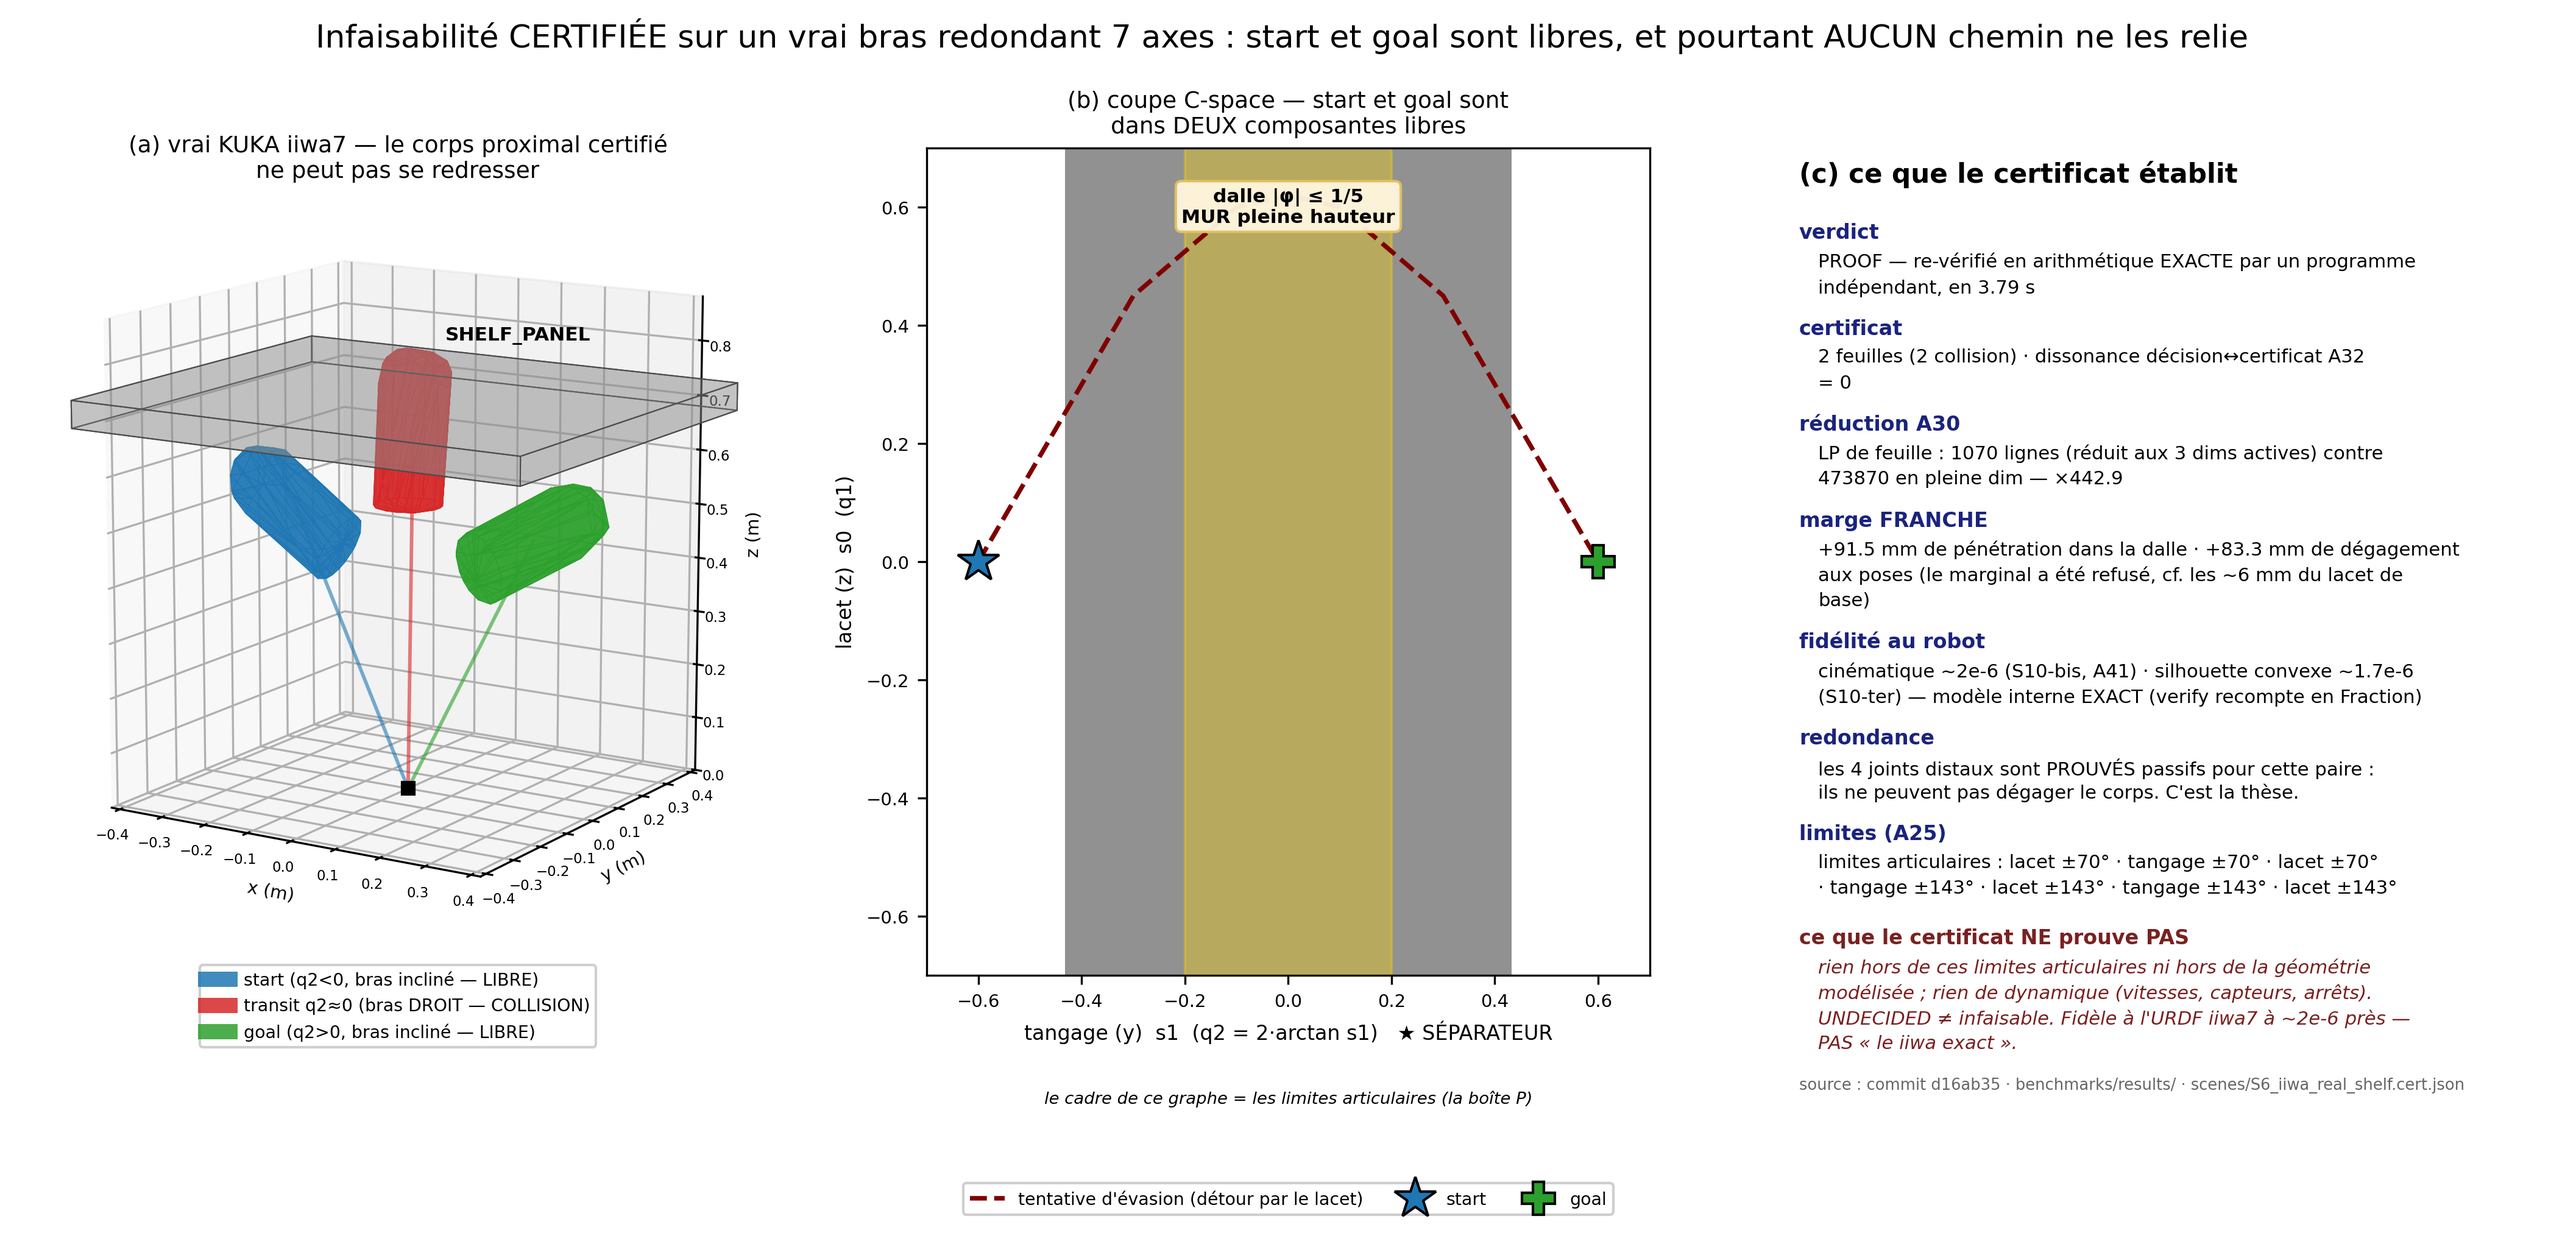
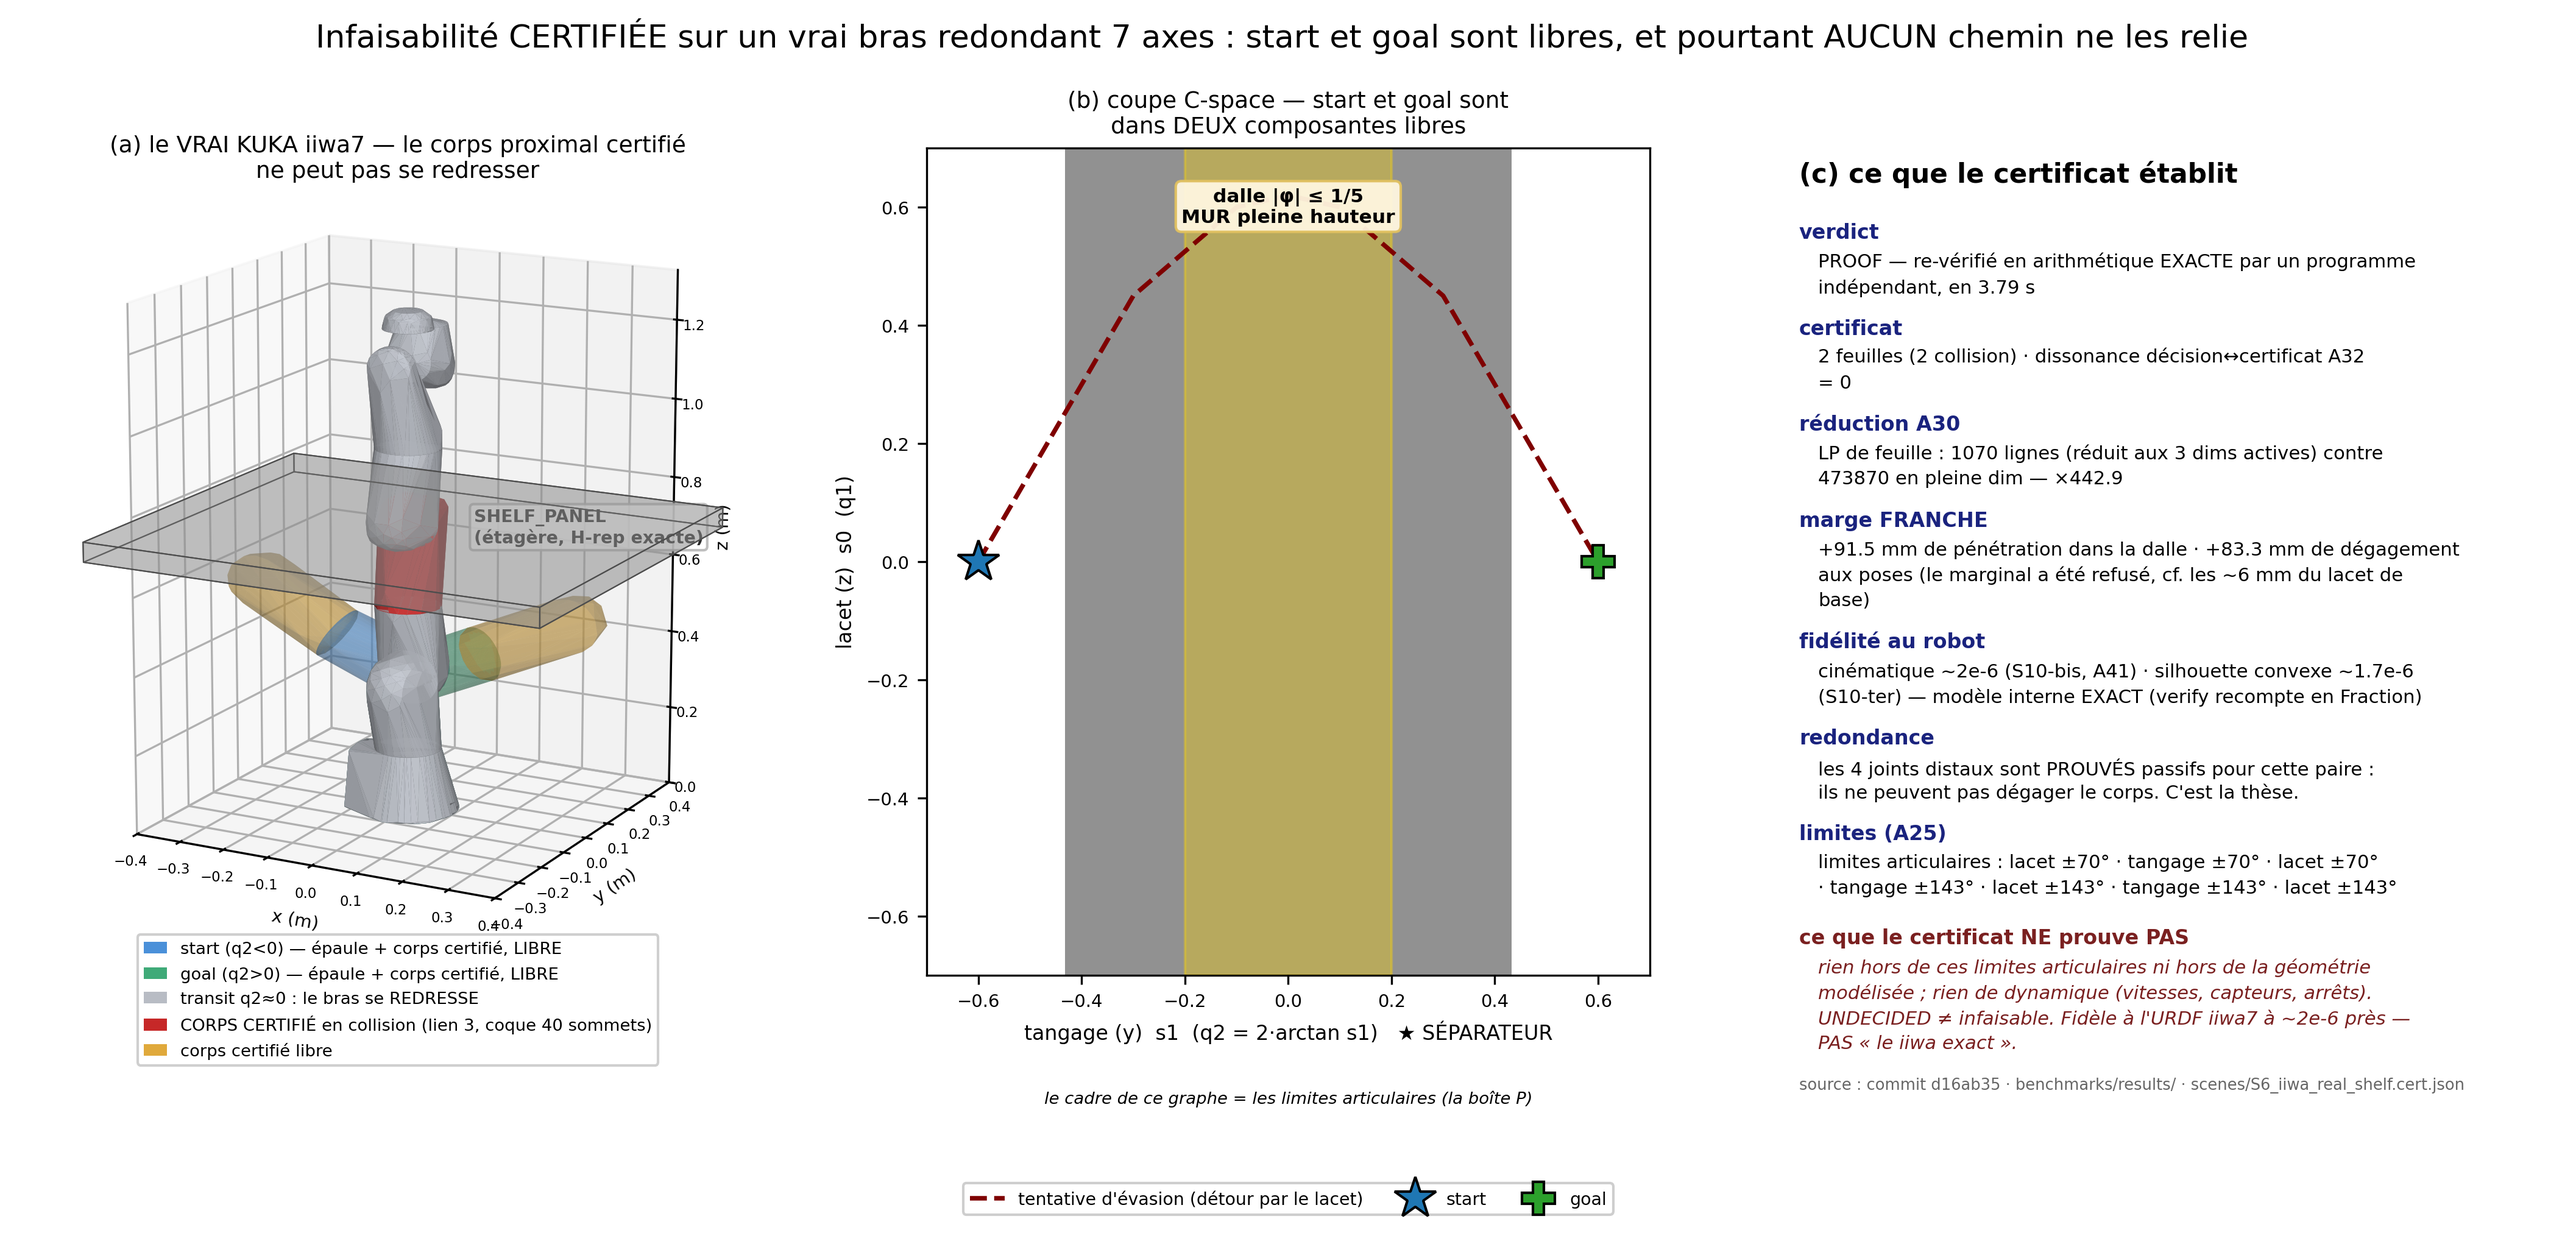
S11 fix Fig 1 — panneau (a) : dessiner le VRAI iiwa7, pas seulement la coque du corps certifié
Retour Stéphane sur le gate VUE : « je ne vois pas de kuka, juste des suppositoires de
couleur ». Exact — le panneau (a) ne dessinait que la coque du lien 3 aux trois poses.

- Le bras entier est rendu à partir des meshes de VISU Drake (coques convexes décimées par
  support), en réutilisant l'extraction déjà écrite pour l'export 3D partageable plutôt qu'en
  la dupliquant : le papier et l'artefact prospect montrent LE MÊME robot.
- Tous les triangles d'une pose vont dans UNE Poly3DCollection : mplot3d ne trie qu'entre
  collections, et une collection par lien produisait un empilement faux.
- Ombrage lambertien par triangle : sans lui une coque convexe se lit comme une tache plate.
- Poses fantômes limitées à l'épaule + corps certifié (le reste du bras incliné sortait du
  cadre et noyait la lecture) ; pose de transit dessinée entière et opaque.
- Étiquette de l'étagère en coordonnées d'axes (une annotation 3-D se faisait rogner).

L'assertion A40 est conservée : la couleur du corps doit coïncider avec l'oracle
corps-convexe, sinon la figure échoue au lieu de mentir.

Changed region(s): [[0.0312, 0.2179, 0.3122, 0.8715], [0.0312, 0.0934, 0.281, 0.1245]]

diff --git a/certified-noplan/scripts/make_paper_fig1.py b/certified-noplan/scripts/make_paper_fig1.py
@@ -2,9 +2,11 @@
 
 Trois panneaux, une histoire lisible sans légende orale (critère V7) :
 
-  (a) **rendu 3-D** : l'étagère en surplomb, le CORPS CERTIFIÉ (coque 40 sommets du
-      certificat, verbatim) aux poses start et goal — basses, libres, de part et d'autre —
-      et au TRANSIT ``q2≈0`` où le bras se redresse et percute l'étagère (rouge) ;
+  (a) **rendu 3-D du VRAI robot** : le KUKA iiwa7 entier (silhouettes convexes de ses meshes
+      de visu Drake, même doctrine « niveau 1 » que le corps certifié), l'étagère en surplomb,
+      et les trois poses — start et goal en fantômes (bras incliné, corps bas, LIBRE, de part
+      et d'autre) et le TRANSIT ``q2≈0`` en pleine opacité, où le bras se redresse et où le
+      CORPS CERTIFIÉ (coque 40 sommets du certificat, verbatim) percute l'étagère (rouge) ;
   (b) **coupe C-space** sur l'axe SÉPARATEUR (tangage d'épaule ``s1 = q2``) × le lacet de
       base : la dalle ``|φ| ≤ δ`` est un MUR de collision PLEINE HAUTEUR entre start et goal
       — c'est la déconnexion, et la redondance distale n'y change rien ;
@@ -33,6 +35,12 @@ OUT = os.path.join("benchmarks", "figures", "paper", "fig1.png")
 BENCH_GLOB = "benchmarks/results/*/flagship_S10_iiwa_real.json"
 ESCAPE = [(-0.6, 0.0), (-0.3, 0.45), (-0.1, 0.6), (0.0, 0.62), (0.1, 0.6), (0.3, 0.45),
           (0.6, 0.0)]
+START, GOAL, TRANSIT = "#4a90d9", "#3faa78", "#b8bcc4"
+
+
+def plt_patch(colour, label):
+    import matplotlib.patches as mpatches
+    return mpatches.Patch(facecolor=colour, edgecolor="none", label=label)
 
 
 def _latest_bench() -> dict:
@@ -44,11 +52,71 @@ def _latest_bench() -> dict:
 
 
 def _hull_faces(V):
+    """Triangles de la coque, ORIENTÉS vers l'extérieur (sinon le rendu paraît creux)."""
     from scipy.spatial import ConvexHull
-    return ConvexHull(V).simplices
+    V = np.asarray(V, float)
+    c = V.mean(axis=0)
+    out = []
+    for tri in ConvexHull(V).simplices:
+        a, b, d = V[tri[0]], V[tri[1]], V[tri[2]]
+        if np.dot(np.cross(b - a, d - a), (a + b + d) / 3.0 - c) < 0:
+            tri = [tri[0], tri[2], tri[1]]
+        out.append(list(tri))
+    return out
+
+
+def _drake_arm():
+    """(coques de liens en repère lien, fonction de pose) du VRAI iiwa7, via Drake.
+
+    Réutilise l'extraction déjà écrite pour l'export 3-D partageable (``export_flagship_3d_html``)
+    plutôt que de la dupliquer : mêmes meshes de VISU, même décimation par support, donc le
+    papier et l'artefact partagé montrent LE MÊME robot."""
+    import importlib.util
+    spec = importlib.util.spec_from_file_location(
+        "export_flagship_3d_html", os.path.join(os.path.dirname(os.path.abspath(__file__)),
+                                                "export_flagship_3d_html.py"))
+    mod = importlib.util.module_from_spec(spec)
+    spec.loader.exec_module(mod)
+    plant, sg, ctx = mod._plant()
+    hulls = mod._link_hulls(plant, sg)
+
+    def posed(s):
+        """Les 8 coques de liens en coordonnées MONDE à la configuration ``s``."""
+        plant.SetPositions(ctx, 2.0 * np.arctan(np.asarray(s, float)))
+        out = {}
+        for L in mod.LINKS:
+            X = plant.EvalBodyPoseInWorld(ctx, plant.GetBodyByName(L)).GetAsMatrix4()
+            out[L] = (X[:3, :3] @ hulls[L].T).T + X[:3, 3]
+        return out
+
+    return mod.LINKS, mod.CERTIFIED_LINK, posed
+
+
+_LIGHT = np.array([0.45, -0.72, 0.53])
+_LIGHT = _LIGHT / np.linalg.norm(_LIGHT)
+
+
+def _shade(tri, base):
+    """Ombrage lambertien d'un triangle : sans lui, une coque convexe se lit comme une tache
+    plate et le robot n'apparaît pas comme un objet. ``base`` est une couleur matplotlib."""
+    import matplotlib.colors as mcolors
+    a, b, c = tri
+    n = np.cross(b - a, c - a)
+    nn = np.linalg.norm(n)
+    k = 0.42 if nn == 0 else 0.42 + 0.58 * max(0.0, float(np.dot(n / nn, _LIGHT)))
+    r, g, bl = mcolors.to_rgb(base)
+    return (min(1, r * k + 0.06), min(1, g * k + 0.06), min(1, bl * k + 0.06))
 
 
 def _panel_3d(ax, sc, oracle):
+    """Le VRAI iiwa7, pas seulement son corps certifié : sans le robot, la figure ne montre que
+    des capsules colorées et le lecteur ne voit ni la machine ni pourquoi elle est coincée.
+
+    Rendu : les liens viennent des meshes de VISU Drake (coques convexes décimées, doctrine
+    « niveau 1 », la même que le corps certifié) ; seul le corps CERTIFIÉ est la coque 40
+    sommets du certificat, mise en évidence. Tous les triangles d'une pose vont dans UNE seule
+    ``Poly3DCollection`` — mplot3d ne trie qu'entre collections, et une collection par lien
+    donnait un empilement faux. Éclairage lambertien pour que le bras se lise en volume."""
     from mpl_toolkits.mplot3d.art3d import Poly3DCollection
 
     body = scenes._body_fk(sc)
@@ -56,6 +124,41 @@ def _panel_3d(ax, sc, oracle):
     st = np.array([float(v) for v in sc.start_s])
     go = np.array([float(v) for v in sc.goal_s])
     mid = 0.5 * (st + go)
+    links, cert_link, posed = _drake_arm()
+    zmax = 0.0
+
+    def draw_arm(s, base, alpha, upto=None):
+        """``upto`` limite les liens dessinés : les poses fantômes s'arrêtent au corps certifié
+        (le reste du bras, incliné, sort du cadre et noie la lecture) ; la pose de transit est
+        dessinée entière."""
+        nonlocal zmax
+        W = posed(s)
+        tris, cols = [], []
+        for L in (links if upto is None else links[:upto]):
+            if L == cert_link:
+                continue
+            V = W[L]
+            zmax = max(zmax, float(V[:, 2].max()))
+            for f in _hull_faces(V):
+                t = [V[i] for i in f]
+                tris.append(t)
+                cols.append(_shade(t, base))
+        B = np.array([body.eval_world_point(v, s) for v in hv])      # coque DU CERTIFICAT
+        hit = bool(oracle(s))
+        assert hit == (base == TRANSIT), "la figure mentirait (A40)"
+        bcol = "#c62828" if hit else "#e0a93b"
+        for f in _hull_faces(B):
+            t = [B[i] for i in f]
+            tris.append(t)
+            cols.append(_shade(t, bcol))
+        ax.add_collection3d(Poly3DCollection(
+            tris, facecolors=cols, edgecolor="none", alpha=alpha,
+            zsort="average", rasterized=True))
+
+    # fantômes d'abord : épaule + corps certifié seulement (A24-b — chaque vue déclare ce
+    # qu'elle montre ; ici « la pose libre, jusqu'au corps certifié »)
+    draw_arm(st, START, 0.42, upto=4)
+    draw_arm(go, GOAL, 0.42, upto=4)
 
     for nm, (A, b) in sc.obstacles.items():
         bnds = viz._box_bounds(A, b)
@@ -70,34 +173,29 @@ def _panel_3d(ax, sc, oracle):
                  ([0, 1, 2, 3], [4, 5, 6, 7], [0, 1, 5, 4], [2, 3, 7, 6],
                   [1, 2, 6, 5], [0, 3, 7, 4])]
         ax.add_collection3d(Poly3DCollection(faces, facecolor="0.55", edgecolor="0.3",
-                                             alpha=0.30, lw=0.5))
-        ax.text(0, y1, z1 + 0.035, nm, fontsize=7.5, weight="bold", ha="center")
+                                             alpha=0.32, lw=0.5, zsort="average"))
+        # étiquette en coordonnées d'AXES : une annotation 3-D se fait rogner par le cadre
+        ax.text2D(0.60, 0.545, f"{nm}\n(étagère, H-rep exacte)", transform=ax.transAxes,
+                  fontsize=6.8, weight="bold", ha="left", va="center", color="#2b2b2b",
+                  bbox=dict(boxstyle="round,pad=0.22", fc="white", ec="0.7", alpha=0.85))
 
-    for s, colour, lbl in ((st, "#1f77b4", "start (q2<0, bras incliné — LIBRE)"),
-                           (mid, "#d62728", "transit q2≈0 (bras DROIT — COLLISION)"),
-                           (go, "#2ca02c", "goal (q2>0, bras incliné — LIBRE)")):
-        W = np.array([body.eval_world_point(v, s) for v in hv])
-        assert (colour == "#d62728") == bool(oracle(s)), "la figure mentirait (A40)"
-        tri = [[W[i] for i in f] for f in _hull_faces(W)]
-        ax.add_collection3d(Poly3DCollection(tri, facecolor=colour, edgecolor=colour,
-                                             alpha=0.75, lw=0.3))
-        # trait épaule→corps seulement : le squelette complet (19 repères de chaîne) part
-        # loin hors cadre et brouille la lecture ; ici on situe le CORPS certifié, rien d'autre.
-        c = W.mean(axis=0)
-        ax.plot([0, c[0]], [0, c[1]], [0, c[2]], "-", color=colour, lw=1.4, alpha=0.6)
-        ax.plot([], [], [], "-", color=colour, lw=6, alpha=0.85, label=lbl)
-    ax.plot([0], [0], [0], "ks", ms=5)
+    draw_arm(mid, TRANSIT, 0.97)                 # …puis la pose de transit, opaque
 
-    ax.set_xlim(-0.42, 0.42); ax.set_ylim(-0.42, 0.42); ax.set_zlim(0, 0.88)
-    ax.set_box_aspect((1, 1, 1.15))
-    ax.view_init(elev=13, azim=-58)
+    handles = [plt_patch(START, "start (q2<0) — épaule + corps certifié, LIBRE"),
+               plt_patch(GOAL, "goal (q2>0) — épaule + corps certifié, LIBRE"),
+               plt_patch(TRANSIT, "transit q2≈0 : le bras se REDRESSE"),
+               plt_patch("#c62828", "CORPS CERTIFIÉ en collision (lien 3, coque 40 sommets)"),
+               plt_patch("#e0a93b", "corps certifié libre")]
+    ax.legend(handles=handles, loc="upper center", bbox_to_anchor=(0.5, 0.02), fontsize=6.6,
+              framealpha=0.94, borderpad=0.35, handlelength=1.4)
+    ax.set_xlim(-0.4, 0.4); ax.set_ylim(-0.4, 0.4); ax.set_zlim(0, max(1.05, zmax + 0.06))
+    ax.set_box_aspect((1, 1, 1.35))
+    ax.view_init(elev=15, azim=-62)
     ax.set_xlabel("x (m)", labelpad=-8, fontsize=7)
     ax.set_ylabel("y (m)", labelpad=-8, fontsize=7)
     ax.set_zlabel("z (m)", labelpad=-6, fontsize=7)
     ax.tick_params(labelsize=5.5, pad=-3)
-    ax.legend(loc="upper center", bbox_to_anchor=(0.5, -0.02), fontsize=6.8,
-              framealpha=0.94, borderpad=0.35, handlelength=1.4)
-    ax.set_title("(a) vrai KUKA iiwa7 — le corps proximal certifié\nne peut pas se redresser",
+    ax.set_title("(a) le VRAI KUKA iiwa7 — le corps proximal certifié\nne peut pas se redresser",
                  fontsize=9, pad=0)
 
 
